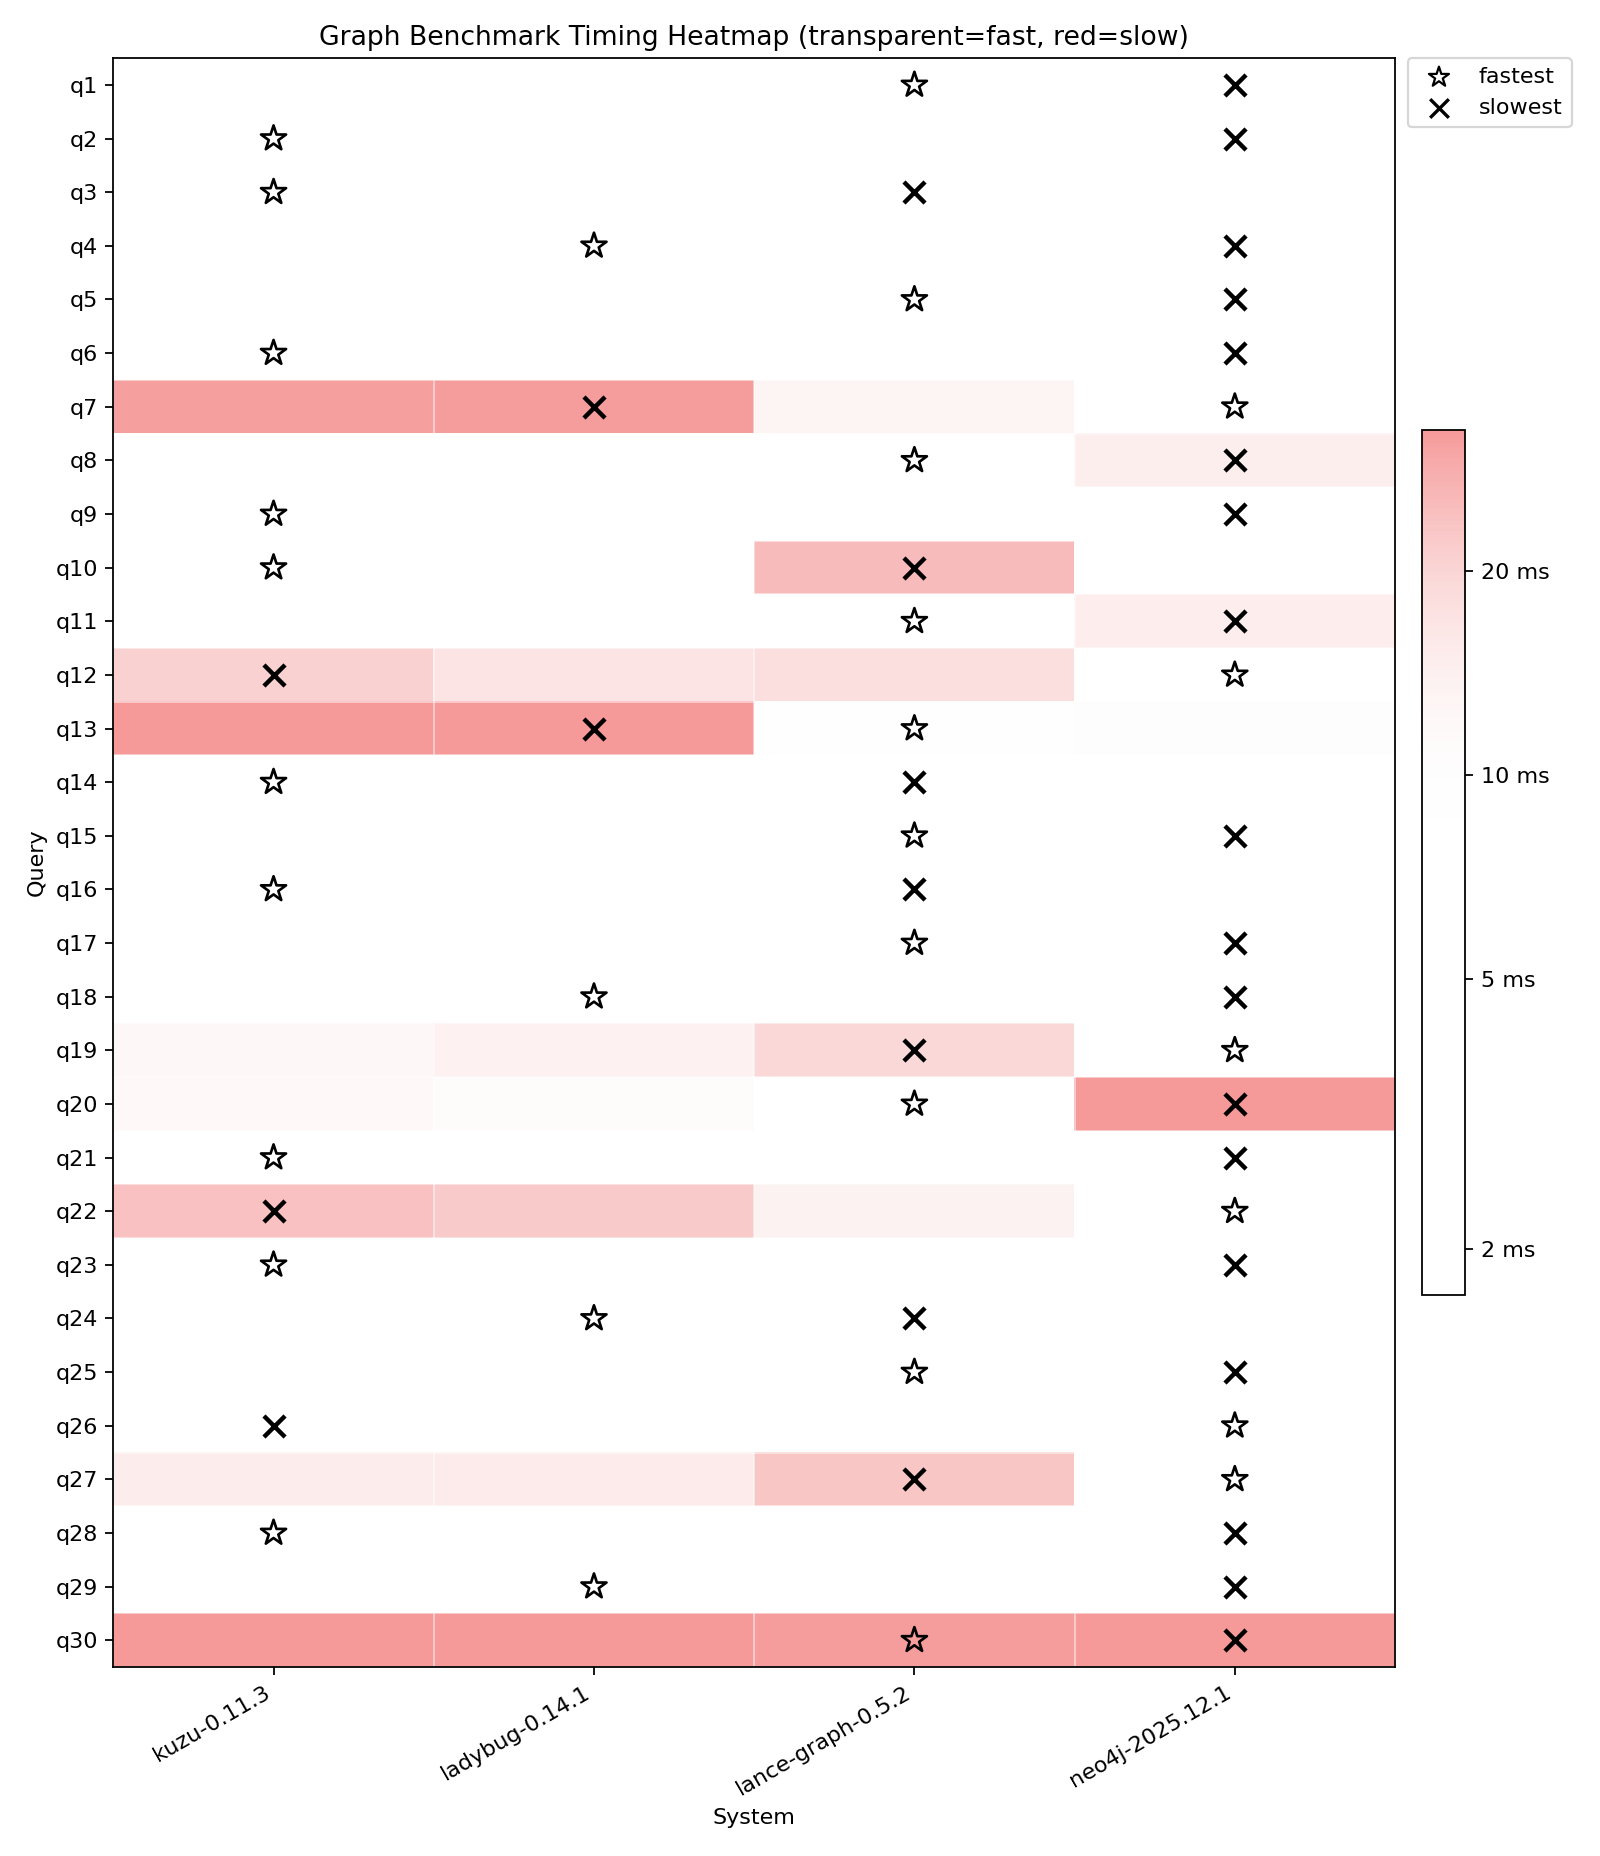
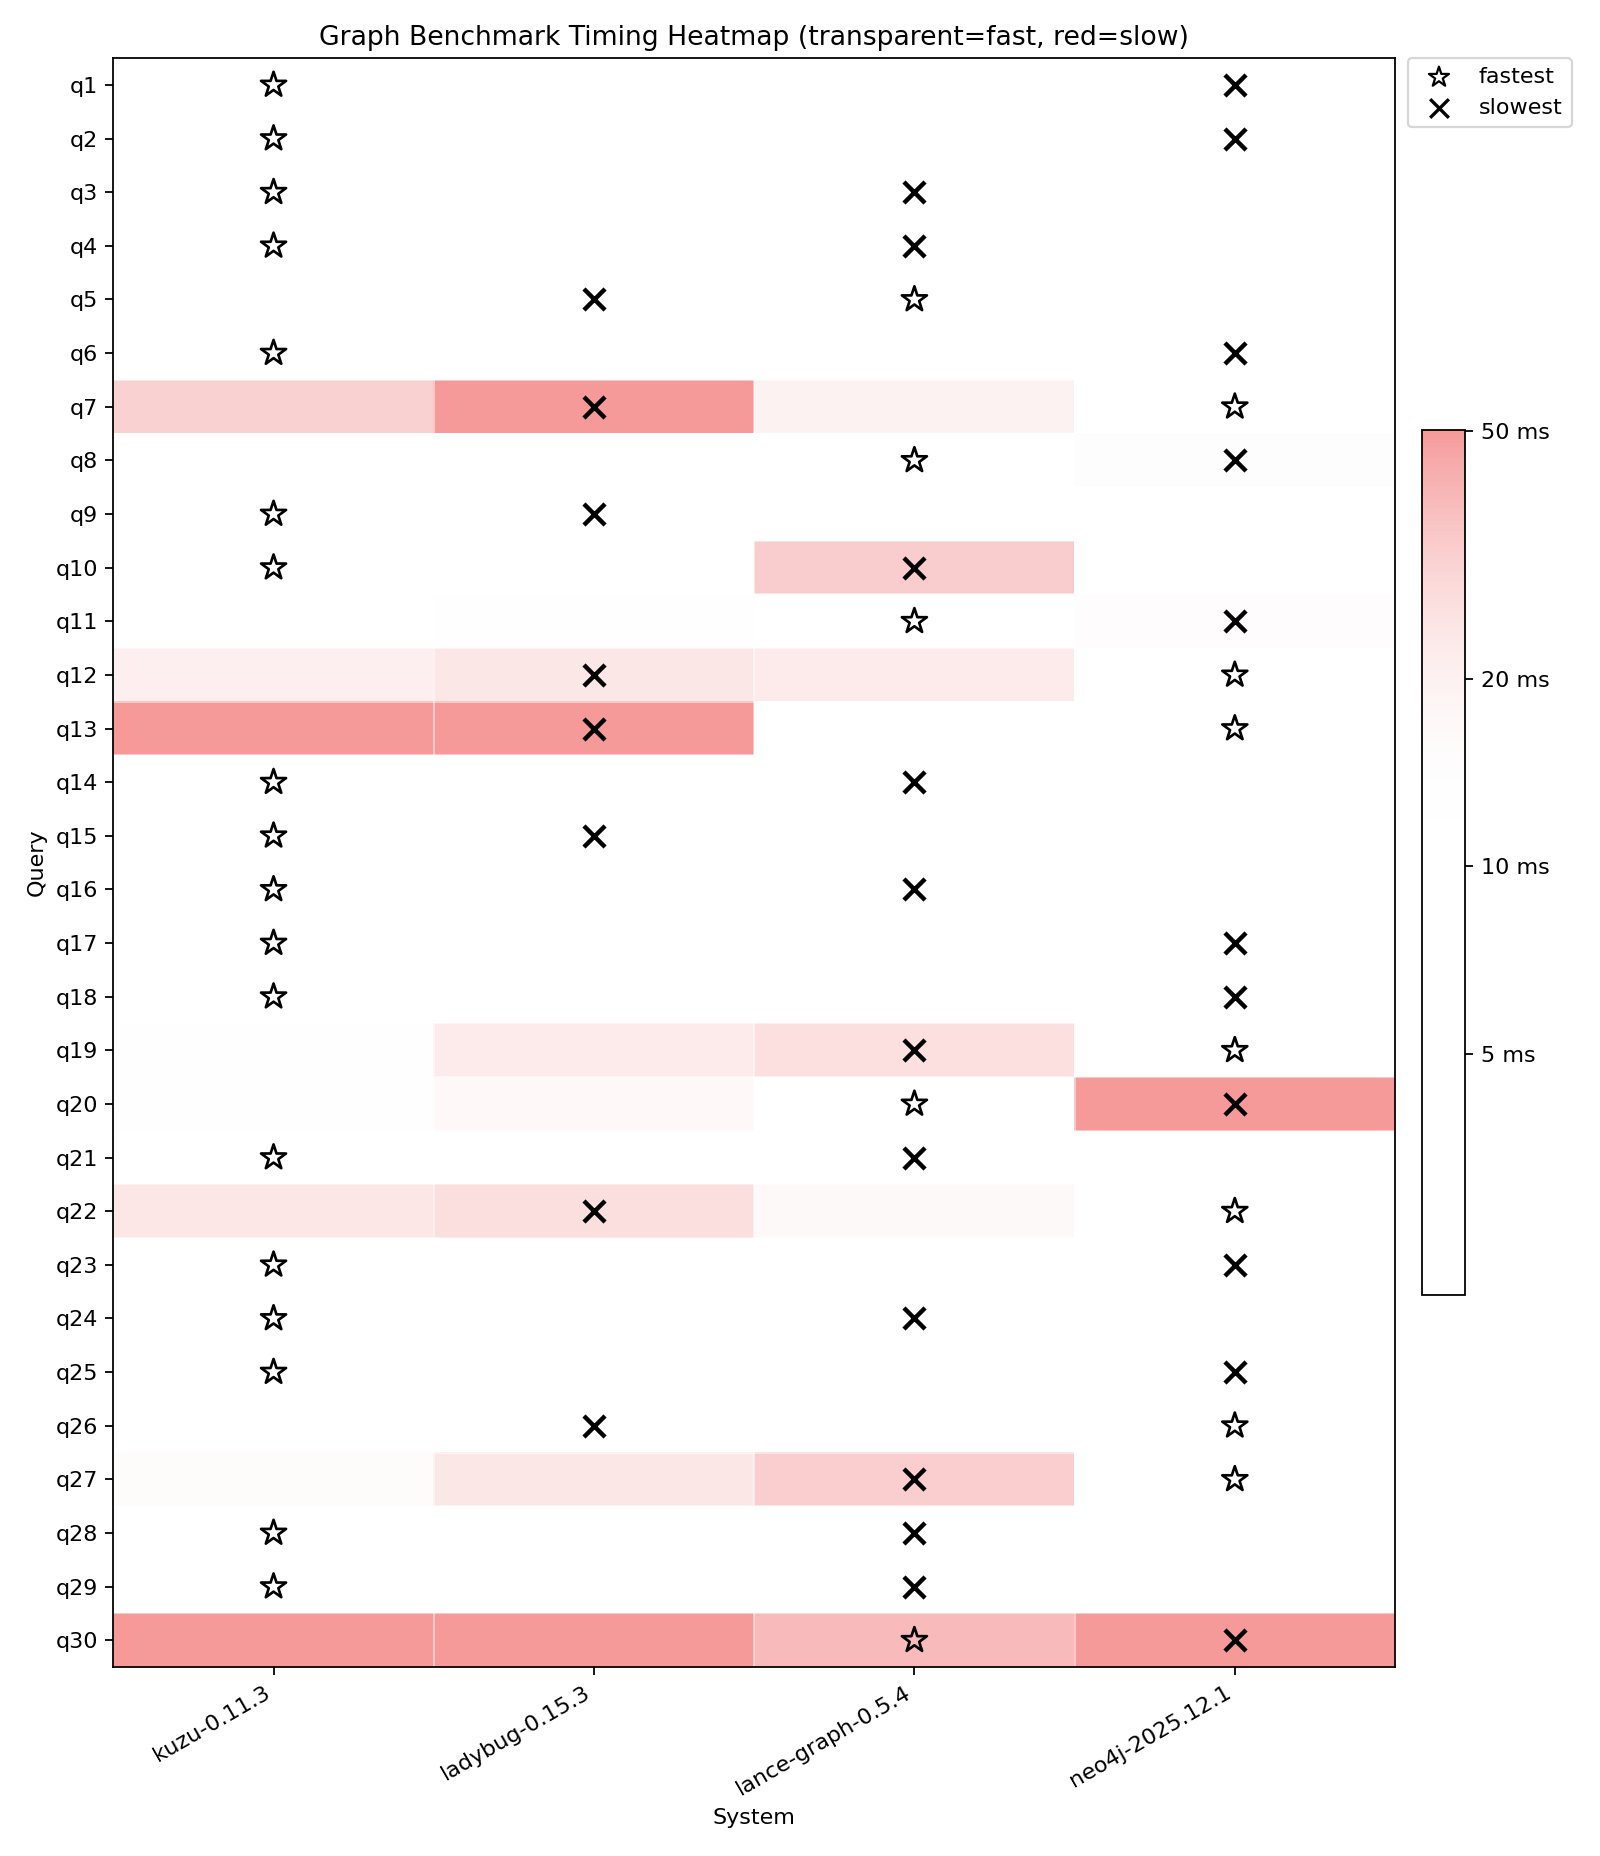
Update benchmark results

diff --git a/README.md b/README.md
@@ -93,38 +93,38 @@ each of the 30 queries run in the benchmark.
 
 ## High-level results
 
-| Query | neo4j-2025.12.1 (ms) | kuzu-0.11.3 (ms) | ladybug-0.14.1 (ms) | lance-graph-0.5.2 (ms) |
+| Query | neo4j-2025.12.1 (ms) | kuzu-0.11.3 (ms) | ladybug-0.15.3 (ms) | lance-graph-0.5.4 (ms) |
 | --- | --- | --- | --- | --- |
-| q1 | 4.9ms | 2.3ms (2.2x) | 2.1ms (2.3x) | 1.6ms (3.1x) |
-| q2 | 5.9ms | 1.4ms (4.1x) | 1.5ms (3.9x) | 2.4ms (2.5x) |
-| q3 | 2.9ms | 1.2ms (2.4x) | 1.3ms (2.3x) | 3.4ms (0.9x) |
-| q4 | 4.1ms | 1.0ms (4.0x) | 1.0ms (4.0x) | 3.1ms (1.3x) |
-| q5 | 4.9ms | 3.8ms (1.3x) | 3.7ms (1.3x) | 2.1ms (2.3x) |
-| q6 | 3.9ms | 0.8ms (5.0x) | 0.8ms (4.6x) | 0.8ms (4.6x) |
-| q7 | 2.2ms | 31.1ms (0.1x) | 31.6ms (0.1x) | 13.3ms (0.2x) |
-| q8 | 14.6ms | 2.9ms (5.1x) | 2.9ms (5.1x) | 1.3ms (11.3x) |
-| q9 | 2.8ms | 2.1ms (1.4x) | 2.2ms (1.3x) | 2.2ms (1.3x) |
-| q10 | 4.9ms | 1.8ms (2.7x) | 1.9ms (2.6x) | 25.3ms (0.2x) |
-| q11 | 14.9ms | 8.5ms (1.8x) | 8.1ms (1.8x) | 3.3ms (4.5x) |
-| q12 | 8.1ms | 20.7ms (0.4x) | 16.9ms (0.5x) | 18.0ms (0.4x) |
-| q13 | 9.9ms | 50.8ms (0.2x) | 51.5ms (0.2x) | 8.9ms (1.1x) |
-| q14 | 1.7ms | 1.7ms (1.0x) | 1.8ms (0.9x) | 2.9ms (0.6x) |
-| q15 | 3.3ms | 2.7ms (1.2x) | 2.7ms (1.2x) | 2.3ms (1.4x) |
-| q16 | 2.4ms | 2.0ms (1.2x) | 2.0ms (1.2x) | 4.4ms (0.5x) |
-| q17 | 4.9ms | 3.0ms (1.6x) | 3.0ms (1.7x) | 2.7ms (1.8x) |
-| q18 | 3.7ms | 1.8ms (2.0x) | 1.8ms (2.0x) | 2.2ms (1.7x) |
-| q19 | 7.8ms | 12.4ms (0.6x) | 14.1ms (0.6x) | 19.3ms (0.4x) |
-| q20 | 475.7ms | 11.9ms (39.9x) | 10.9ms (43.6x) | 2.6ms (183.6x) |
-| q21 | 1.8ms | 0.6ms (3.2x) | 0.6ms (3.1x) | 1.7ms (1.0x) |
-| q22 | 3.6ms | 24.2ms (0.2x) | 22.3ms (0.2x) | 13.7ms (0.3x) |
-| q23 | 3.9ms | 1.4ms (2.8x) | 1.6ms (2.5x) | 2.7ms (1.4x) |
-| q24 | 1.6ms | 1.5ms (1.1x) | 1.5ms (1.1x) | 2.0ms (0.8x) |
-| q25 | 3.1ms | 1.8ms (1.7x) | 1.7ms (1.8x) | 1.5ms (2.1x) |
-| q26 | 1.8ms | 3.7ms (0.5x) | 3.6ms (0.5x) | 3.1ms (0.6x) |
-| q27 | 3.5ms | 15.2ms (0.2x) | 15.4ms (0.2x) | 23.0ms (0.2x) |
-| q28 | 3.9ms | 1.7ms (2.3x) | 1.8ms (2.2x) | 2.8ms (1.4x) |
-| q29 | 2.9ms | 1.3ms (2.3x) | 1.2ms (2.4x) | 2.7ms (1.1x) |
-| q30 | 1255.2ms | 158.7ms (7.9x) | 154.4ms (8.1x) | 31.3ms (40.1x) |
+| q1 | 4.9ms | 2.3ms (2.2x) | 3.4ms (1.4x) | 2.3ms (2.1x) |
+| q2 | 5.9ms | 1.4ms (4.1x) | 2.3ms (2.6x) | 3.3ms (1.8x) |
+| q3 | 2.9ms | 1.2ms (2.4x) | 2.0ms (1.5x) | 3.2ms (0.9x) |
+| q4 | 4.1ms | 1.0ms (4.0x) | 1.6ms (2.5x) | 4.3ms (1.0x) |
+| q5 | 4.9ms | 3.8ms (1.3x) | 5.9ms (0.8x) | 3.0ms (1.6x) |
+| q6 | 3.9ms | 0.8ms (5.0x) | 1.4ms (2.8x) | 1.4ms (2.8x) |
+| q7 | 2.2ms | 31.1ms (0.1x) | 50.1ms (0.0x) | 19.6ms (0.1x) |
+| q8 | 14.6ms | 2.9ms (5.1x) | 4.5ms (3.2x) | 2.0ms (7.4x) |
+| q9 | 2.8ms | 2.1ms (1.4x) | 3.5ms (0.8x) | 3.4ms (0.8x) |
+| q10 | 4.9ms | 1.8ms (2.7x) | 3.1ms (1.6x) | 32.5ms (0.2x) |
+| q11 | 14.9ms | 8.5ms (1.8x) | 13.6ms (1.1x) | 5.0ms (3.0x) |
+| q12 | 8.1ms | 20.7ms (0.4x) | 23.9ms (0.3x) | 22.4ms (0.4x) |
+| q13 | 9.9ms | 50.8ms (0.2x) | 82.8ms (0.1x) | 11.4ms (0.9x) |
+| q14 | 1.7ms | 1.7ms (1.0x) | 2.8ms (0.6x) | 4.0ms (0.4x) |
+| q15 | 3.3ms | 2.7ms (1.2x) | 4.4ms (0.7x) | 3.5ms (0.9x) |
+| q16 | 2.4ms | 2.0ms (1.2x) | 3.2ms (0.7x) | 5.8ms (0.4x) |
+| q17 | 4.9ms | 3.0ms (1.6x) | 4.8ms (1.0x) | 3.8ms (1.3x) |
+| q18 | 3.7ms | 1.8ms (2.0x) | 2.8ms (1.3x) | 3.0ms (1.2x) |
+| q19 | 7.8ms | 12.4ms (0.6x) | 22.5ms (0.3x) | 25.9ms (0.3x) |
+| q20 | 475.7ms | 11.9ms (39.9x) | 17.0ms (28.0x) | 3.6ms (133.5x) |
+| q21 | 1.8ms | 0.6ms (3.2x) | 0.9ms (2.1x) | 2.6ms (0.7x) |
+| q22 | 3.6ms | 24.2ms (0.2x) | 26.6ms (0.1x) | 16.7ms (0.2x) |
+| q23 | 3.9ms | 1.4ms (2.8x) | 2.3ms (1.7x) | 3.9ms (1.0x) |
+| q24 | 1.6ms | 1.5ms (1.1x) | 2.4ms (0.7x) | 3.0ms (0.6x) |
+| q25 | 3.1ms | 1.8ms (1.7x) | 2.9ms (1.1x) | 2.4ms (1.3x) |
+| q26 | 1.8ms | 3.7ms (0.5x) | 5.9ms (0.3x) | 4.5ms (0.4x) |
+| q27 | 3.5ms | 15.2ms (0.2x) | 24.0ms (0.1x) | 32.3ms (0.1x) |
+| q28 | 3.9ms | 1.7ms (2.3x) | 3.5ms (1.1x) | 4.1ms (0.9x) |
+| q29 | 2.9ms | 1.3ms (2.3x) | 2.3ms (1.2x) | 3.6ms (0.8x) |
+| q30 | 1255.2ms | 158.7ms (7.9x) | 231.9ms (5.4x) | 38.8ms (32.4x) |
 
 The fastest and slowest systems for each query can be visualized via the following heatmap.
 
